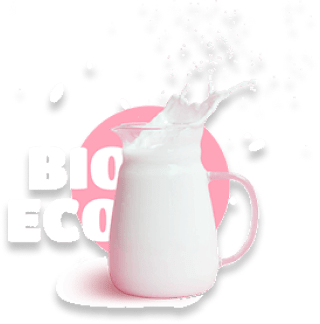
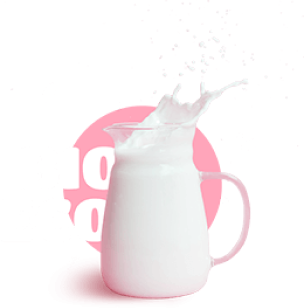
feature/hero768
Готовій герой на таблетку 768рх

diff --git a/src/sass/layout/_hero.scss b/src/sass/layout/_hero.scss
@@ -5,10 +5,8 @@
         background-color: $bgc-hero-header;
     }
 }
-.hero-bg{
-}
 
-.circle{
+.hero-img-circle{
     position: absolute;
     z-index: 2;
     top: 83px;
@@ -22,6 +20,7 @@
         left: 248px;
         width: 335px;
         height: 333px;
+        background-image: url(../images/ellipse-all.png);
     }
     @include desk{
         top: 54px;
@@ -31,7 +30,7 @@
     }
 }
 
-.icecrean-img{
+.hero-img-icecrean{
     height: 410px;
     width: 171px;
     z-index: 3;
@@ -56,10 +55,70 @@
     }
 }
 
+.hero-img-milk{
+    @include tab{
+        background-image: url(../images/hero-milk-tab-1x.png);
+        width: 152px;
+        height: 154px;
+        position: absolute;
+        left: 32px;
+        // top: 0;
+        bottom: 16px;
+    }
+}
+
+.hero-img-girl{
+    @include tab{
+        background-image: url(../images/hero-girl-tab-1x.png);
+        width: 190px;
+        height: 160px;
+        position: absolute;
+        right: 32px;
+        top: 265px;
+        z-index: 10;
+    }
+}
+
+.hero-bg-text-box{
+    display: none;
+    @include tab{
+        display: block;
+        width: 114px;
+        position: absolute;
+        left: 184px;
+        top: 287px;
+        z-index: 10;
+    }
+}
+
+.hero-bg-text{
+    font-size: 8px;
+    line-height: 1.5;
+    color: #FFFFFF;
+    text-shadow: 0px 4px 4px rgba(0, 0, 0, 0.25);
+    margin-bottom: 8px;
+}
+
+.hero-bg-btn{
+    background-color: #FFFFFF;
+    border: none;
+    border-radius: 50%;
+    width: 18px;
+    height: 18px;
+}
+
+.hero-btn-logo{
+    fill: $color-accent;
+}
+
 .hero-content{
     padding: 194px 82px 158px 20px;
     position: relative;
     z-index: 10;
+    @include tab{
+        padding: 102px 32px 190px 32px;
+        height: 416px;
+    }
 }
 
 .hero-title{
@@ -70,18 +129,83 @@
     letter-spacing: 0.04em;
     text-transform: uppercase;
     color: #FFFFFF;
-    margin-bottom: 20px;
     width: 218px;
+
+    @include tab{
+        font-size: 22px;
+        line-height: 1.25;
+        width: 162px;
+        margin-right: 490px;
+    }
 }
 
 .hero-title-accent{
     font-size: 48px;
     line-height: 0.96;
     color: $color-accent;
+    @include tab{
+        font-size: 34px;
+        line-height: 0.91;
+    }
+}
+
+.hero-numbers-list{
+    display: none;
+    @include tab{
+        display: block;
+    }
+}
+
+.hero-box{
+    @include tab{
+        display: flex;
+        justify-content: space-between;
+    }
+}
+
+.hero-numbers-item{
+    &:not(:last-child){
+        margin-bottom: 14px;
+    }
+}
+
+.hero-number{
+    font-family: 'Titan One';
+    font-weight: 400;
+    font-size: 28px;
+    line-height: 1.14;
+    // text-align: right;
+    letter-spacing: 0.04em;
+    text-transform: uppercase;
+    color: $color-accent;
+    position: relative;
+    &::after{
+        content: "";
+        width: 16px;
+        height: 16px;
+        background-color: #FFFFFF;
+        border: none;
+        border-radius: 50%;
+        position: absolute;
+        left: 26px;
+        top: -4px;
+        z-index: -1;
+    }
+}
+
+.hero-unit{
+    font-size: 8px;
+    line-height: 1.25;
+    text-align: center;
+    color: #FFFFFF;
 }
 
 .hero-btn{
     display: flex;
+    margin-top: 20px;
+    // @include tab{
+    //     margin-top: 12px;
+    // }
 }
 
 .btn-products{

diff --git a/src/partials/hero.html b/src/partials/hero.html
@@ -1,12 +1,34 @@
 <section class="hero">
     <div class="container">
         <div class="hero-bg">
-            <div class="circle"></div>
-            <div class="icecrean-img"></div>
+            <div class="hero-img-circle"></div>
+            <div class="hero-img-icecrean"></div>
+            <div class="hero-img-milk"></div>
+            <div class="hero-img-girl"></div>
+            <div class="hero-bg-text-box">
+                <p class="hero-bg-text">Lorem ipsum dolor sit amet, consectetur adipiscing elit, sed do eiusmod tempor incididunt ut labore et</p>
+                <button class="hero-bg-btn" type="button">
+                    <svg class="hero-btn-logo" height="12" width="7">
+                        <use href="../../images/svg/symbol-defs.svg#icon-arrow-right2"></use>
+                    </svg>
+                </button>
+            </div>
         </div>
             <div class="hero-content">
-                <h1 class="hero-title">ice cream made with
-                    <span class="hero-title-accent">passion</span></h1>
+                <div class="hero-box">
+                    <h1 class="hero-title">ice cream made with
+                        <span class="hero-title-accent">passion</span></h1>
+                    <ul class="hero-numbers-list list">
+                        <li class="hero-numbers-item">
+                            <p class="hero-number">16</p>
+                            <p class="hero-unit">cafes</p>
+                        </li>
+                        <li class="hero-numbers-item">
+                            <p class="hero-number">23</p>
+                            <p class="hero-unit">food trucks</p>
+                        </li>
+                    </ul>
+                </div>
                 <div class="hero-btn">
                     <button class="btn-products" type="button">Products</button>
                     <button class="btn-about" type="button">How it’s made?</button>
